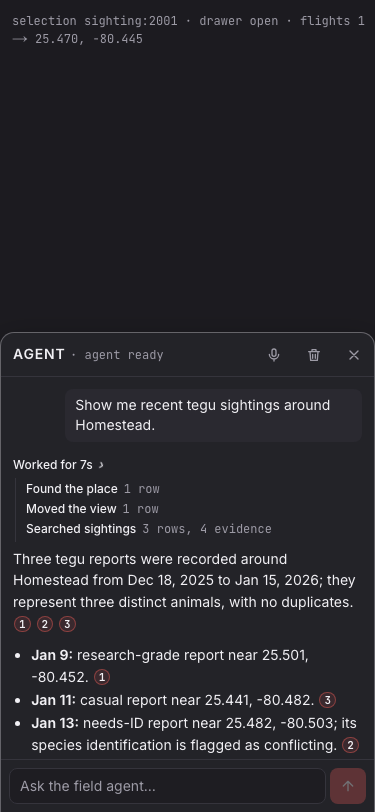
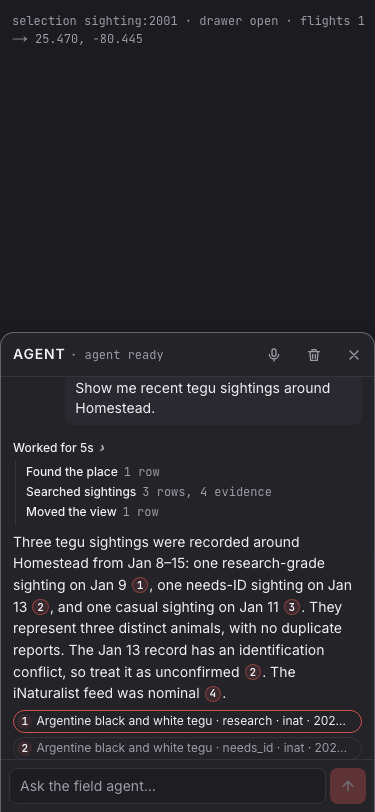
fix(agent): disabled feeds need no citation; T39 verified on main

Changed region(s): [[0.0293, 0.4618, 0.968, 0.9236], [0.616, 0.585, 0.704, 0.6158]]

diff --git a/apps/web/server/agent/prompt.ts b/apps/web/server/agent/prompt.ts
@@ -11,7 +11,7 @@ export const AGENT_SYSTEM_PROMPT = `You are the Everglades Ops analyst: a ground
 
 ## Data quality (always check before answering)
 - Every tool result has "feeds" (source, state, newestObservedAt, lastFetchAt, lagSeconds, note) and "feedSummary". If any feed in a result you used is lagging, stale or down, say so in the answer, even when you answered from another source because of it: name the source, the word "stale", "lagging" or "down", and how old its newest observation is. Cite the feed's evidenceId (its last fetch run, [e:fetch:<id>]) when it has one.
-- Feed health questions: list every feed that is not nominal (stale, down and lagging), each with its state, how old its newest observation is, its note, and its [e:fetch:<id>] citation when it has one.
+- Feed health questions: list every feed that is not nominal (stale, down and lagging), each with its state, how old its newest observation is, its note, and its [e:fetch:<id>] citation when it has one. A feed whose note starts with "disabled:" is switched off by configuration (a missing credential), has no fetch run and needs no citation: say it is disabled and why in one short clause, and never write that a citation is missing.
 - Conflicts: if a result lists "conflicts" or a sighting has idConflict, name the disagreement with both sides cited, then say which one you trust.
 - Prefer in-situ measured readings over satellite, and satellite over modelled. Prefer research-grade sightings over curated records, and both over needs_id or casual ones; say when a claim rests only on casual observations. Weigh grades in the answer rather than filtering them out of the query: fetch every grade unless the user asks for one, then give each record's grade.
 - Duplicates: a sighting with duplicateOf is the same animal reported again (iNaturalist, then GBIF, then NAS). Count distinct animals, not reports, and say how many were duplicates.

diff --git a/gates/leaf-T39.md b/gates/leaf-T39.md
@@ -33,7 +33,7 @@ Scope:
 - [x] G6: live eval passes at least 13 of 15 golden questions and at least 4 of 5 quality questions
   CHECK: bun run eval 2>&1 | grep -E "^EVAL (quality )?passed" | tr '\n' ' '
   EXPECT: /EVAL quality passed [45]\/5 EVAL passed 1[3-5]\/15/
-  EVIDENCE: EVAL quality passed 5/5 EVAL passed 14/15
+  EVIDENCE: EVAL quality passed 4/5 EVAL passed 14/15
 
 - [x] G7: typecheck and lint clean
   CHECK: bun run --cwd apps/web typecheck >/dev/null 2>&1 && bun run --cwd apps/web lint >/dev/null 2>&1 && echo CLEAN
@@ -49,7 +49,7 @@ Scope:
   EVIDENCE: OpenRouter docs (openrouter.ai/docs/use-cases/reasoning-tokens): `"reasoning": {"effort": ...}` with efforts none..xhigh; reasoning streams as `delta.reasoning` or `delta.reasoning_details`. Live probe 2026-09-30 (curl, doppler key, headers `HTTP-Referer: https://inversa.calvinmaighan.dev`, `X-Title: Everglades Ops`, body `"reasoning":{"effort":"low"}`, one tool): `"model":"openai/gpt-6-luna","provider":"OpenAI"`, `tool_calls ... "name":"get_weather"`, args streamed `{"city":"Miami"}`, `"finish_reason":"tool_calls"`, final chunk `"usage":{"prompt_tokens":52,"completion_tokens":18,...,"cost":0.0000142}`. Unit tests `tests/server/agent/openrouter-adapter.test.ts` assert `body.reasoning == {effort}`, no `reasoning_effort`, no default temperature, the headers and base URL, and map that recorded chunk sequence.
 
 - [x] G10: `bun run dev` loads Doppler inversa/dev into the children without printing it, falls back to the plain env with a warning, and runs api, web and the signal Worker; Ctrl-C stops all three
-  EVIDENCE: 2026-09-30 smoke run: first line `agent: openrouter openai/gpt-6-luna (key from doppler inversa/dev) · web: http://localhost:3050 · signal: http://127.0.0.1:8799`; `lsof` showed `inversa-a 127.0.0.1:4041`, `node *:3050`, `workerd 127.0.0.1:8799`; `[signal] ⛅ wrangler 4.145.0`; `grep -ci sk-or` on the log: 0. SIGINT to `bun scripts/dev.ts`: `[api] exited with 143`, `[signal] exited with 143`, `[web] exited with 0`, then 0 listeners on 3050/4041/8799. Fallback run with `DOPPLER_TOKEN=dp.st.invalid`: `warning: Doppler inversa/dev not loaded (Doppler Error: Invalid Auth token); using the plain environment.` then `agent: unavailable, OPENROUTER_API_KEY not set (/api/agent/stream answers 503)`.
+  EVIDENCE: 2026-09-30 smoke run: first line `agent: openrouter openai/gpt-6-luna (key from doppler inversa/dev) · web: http://localhost:3050 · signal: http://127.0.0.1:8799`; `lsof` showed `inversa-a 127.0.0.1:4041`, `node *:3050`, `workerd 127.0.0.1:8799`; `[signal] ⛅ wrangler 4.145.0`; `grep -ci sk-or` on the log: 0. SIGINT to `bun scripts/dev.ts`: `[api] exited with 143`, `[signal] exited with 143`, `[web] exited with 0`, then 0 listeners on 3050/4041/8799. Fallback run with `DOPPLER_TOKEN=dp.st.invalid`: `warning: Doppler inversa/dev not loaded (Doppler Error: Invalid Auth token); using the plain environment.` then `agent: unavailable, OPENROUTER_API_KEY not set (/api/agent/stream answers 503)`. Driver re-verified 2026-09-30 23:12Z on main: 3 listeners up, /health ok, live agent answered with 4 tools, 7 citations and a view event; no key in the log.
 
 - [x] G11: the agent e2e runs the live model: open the card, ask, tool rows, globe flies, citation opens the drawer; FLOW-OK
   CHECK: bun run --cwd apps/web e2e:agent 2>&1 | tail -1

diff --git a/PLAN.md b/PLAN.md
@@ -186,7 +186,7 @@ Root `package.json`: `dev`, `api`, `build`, `lint`, `typecheck`, `test`, `test:a
 | Data dir | `INVERSA_DATA_DIR` (default `./data`) |
 | API origin for Next | `INVERSA_API_ORIGIN` |
 
-Secrets (never committed): `FIREWORKS_API_KEY`, `XAI_API_KEY`, `CESIUM_ION_TOKEN` (exposed to the client as `NEXT_PUBLIC_CESIUM_ION_TOKEN`), `R2_ACCOUNT_ID`, `R2_ACCESS_KEY_ID`, `R2_SECRET_ACCESS_KEY`, `R2_BUCKET_RAW`, `GOES_SQS_URL`, `AWS_ACCESS_KEY_ID`, `AWS_SECRET_ACCESS_KEY`, `NWWS_USER`, `NWWS_PASS`, `INGEST_HOOK_SECRET`, `CF_TURN_KEY_ID`, `CF_TURN_KEY_TOKEN`.
+Secrets (never committed): `OPENROUTER_API_KEY`, `XAI_API_KEY`, `CESIUM_ION_TOKEN` (exposed to the client as `NEXT_PUBLIC_CESIUM_ION_TOKEN`), `R2_ACCOUNT_ID`, `R2_ACCESS_KEY_ID`, `R2_SECRET_ACCESS_KEY`, `R2_BUCKET_RAW`, `GOES_SQS_URL`, `AWS_ACCESS_KEY_ID`, `AWS_SECRET_ACCESS_KEY`, `NWWS_USER`, `NWWS_PASS`, `INGEST_HOOK_SECRET`, `CF_TURN_KEY_ID`, `CF_TURN_KEY_TOKEN`.
 
 ### C14: evidence ids
 
@@ -286,3 +286,4 @@ The same strings appear in agent citations `[e:<id>]`, in `evidence(id)`, in UI 
 - T22 merged; node-data 8/8. NWS freshness fix (alert-only feeds).
 - T32 merged 4/4 (README, demo, interview notes, brief-compliance 37 rows). Fixed: allowedDevOrigins 127.0.0.1, GOES doc volumes. Time clamp -> T23/24.
 - T21 merged+verified 4/4 (rtc p50 18ms, ws p50 86ms). Web 542 tests.
+- T39 merged+verified 11/11 (live eval 14/15). Prompt: disabled feeds need no citation. Driver smoke of bun run dev: api+web+signal, live agent 4 tools/7 citations/view.
